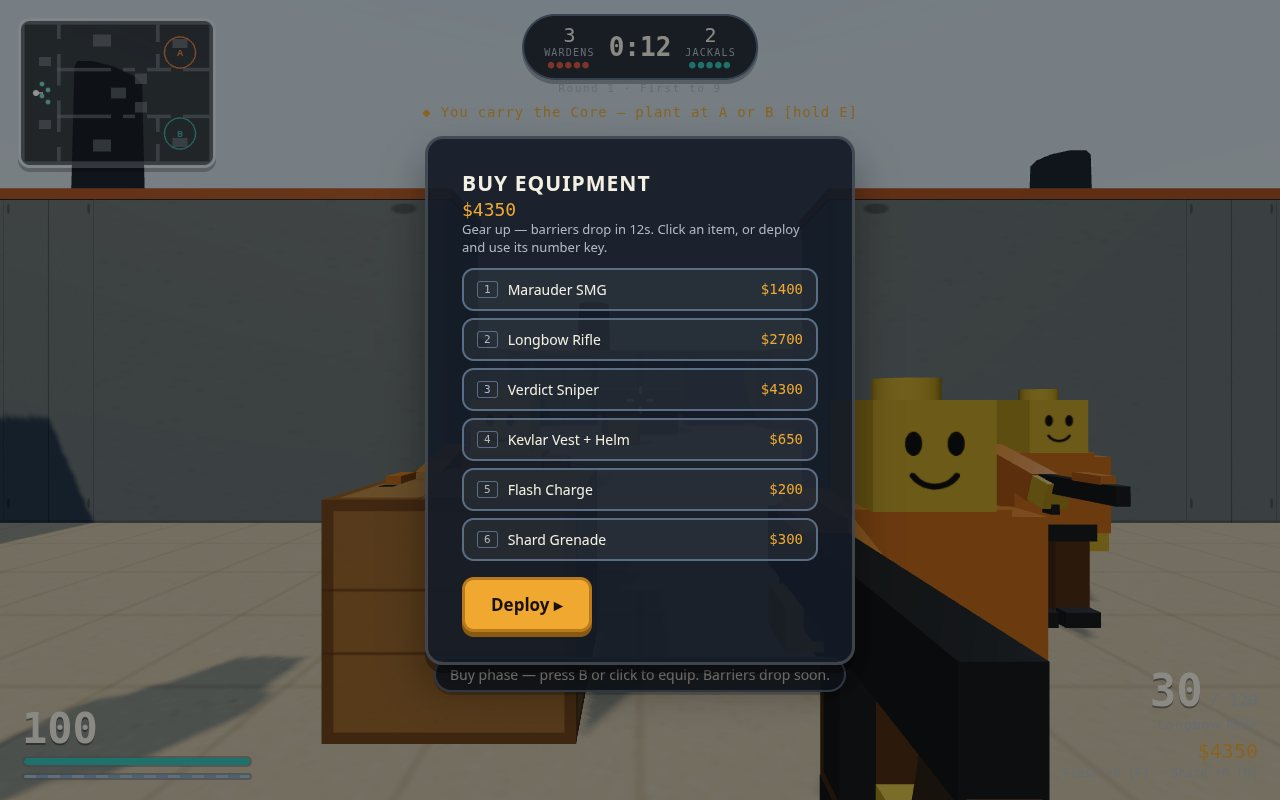
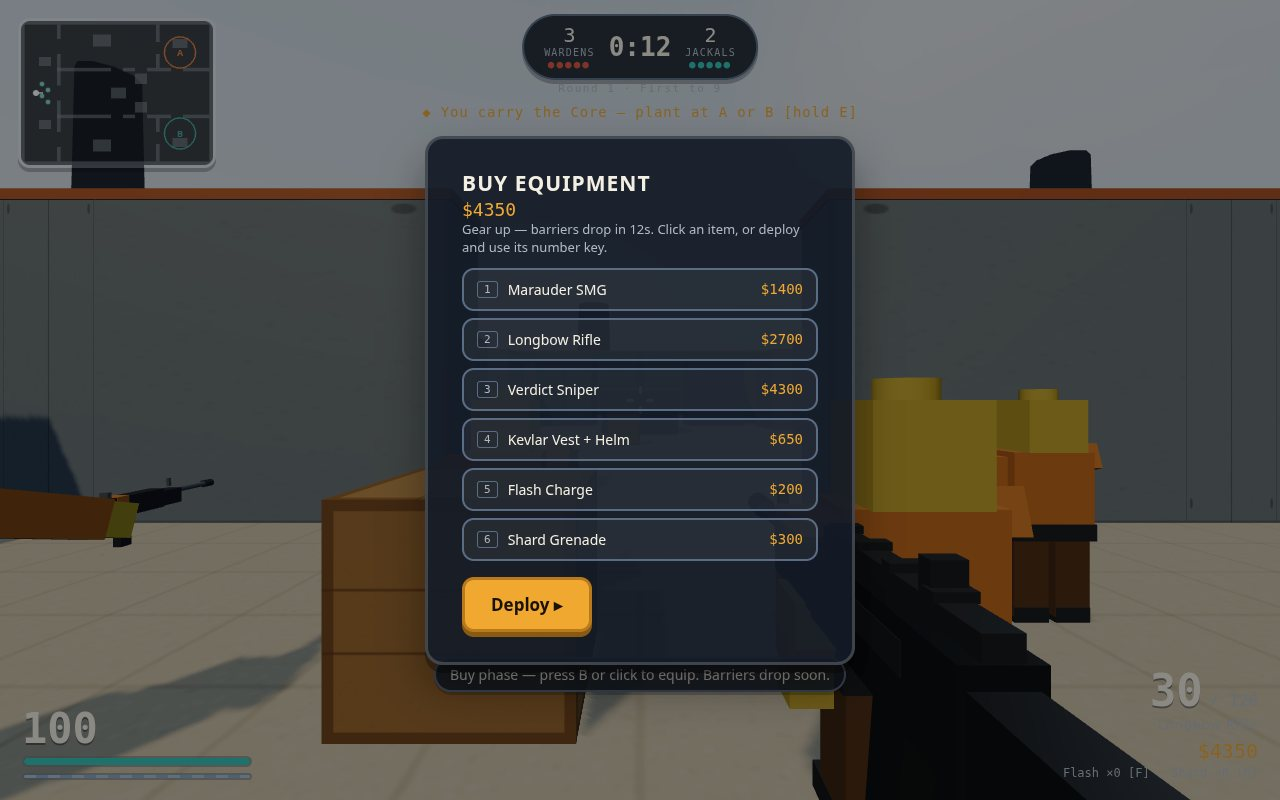
Fix bot facing, realistic weapon models, cloudy sky, platform-aware UI
Characters: bot meshes were posed 180 degrees from their aim and
movement direction, so faces pointed away from whoever they were
fighting; the pose now matches the simulation yaw everywhere. Weapons:
all four viewmodels rebuilt as detailed display models in the Point
Blank tradition (round barrels and suppressors, curved magazines,
stocks, rails, sights, a scoped bolt-action with bipod), and the bots
carry a proper little rifle instead of a slab. Sky: a light overcast of
soft grey-bellied clouds on the gradient dome. UI platform detection:
the touch layer now enables only when a coarse pointer is primary (a
touchscreen laptop stays a desktop), hides buttons that cannot act in
the current phase (no FIRE during buy, nothing at round end), and
touch devices lose the keyboard hints and buy hotkey chips while
desktops never see the touch buttons at all.

diff --git a/game/src/weapons.js b/game/src/weapons.js
@@ -291,47 +291,117 @@ function popGrenade(game, g) {
 // ---------------------------------------------------------------------------
 
 export function buildViewmodel(key) {
+  // Detailed display models in the Point Blank tradition: real silhouettes
+  // assembled from machined-looking parts — barrels and suppressors as
+  // cylinders, curved magazines, stocks, rails, posts and glass — instead
+  // of the single slabs the first build shipped with. Purely cosmetic:
+  // every number the simulation uses lives in config.js.
   const group = new THREE.Group();
-  const body = new THREE.MeshStandardMaterial({ color: 0x3a4046, roughness: 0.35, metalness: 0.3 });
-  const grip = new THREE.MeshStandardMaterial({ color: 0x54432e, roughness: 0.85, metalness: 0 });
+  const metal = new THREE.MeshStandardMaterial({ color: 0x2e3238, roughness: 0.38, metalness: 0.65 });
+  const steel = new THREE.MeshStandardMaterial({ color: 0x6a727c, roughness: 0.3, metalness: 0.8 });
+  const polymer = new THREE.MeshStandardMaterial({ color: 0x1e2124, roughness: 0.55, metalness: 0.2 });
   const accent = new THREE.MeshStandardMaterial({ color: 0xe07b39, roughness: 0.5, metalness: 0.2 });
+  const glass = new THREE.MeshStandardMaterial({ color: 0x0e2a33, roughness: 0.15, metalness: 0.4, emissive: 0x1e6f6a, emissiveIntensity: 0.7 });
   const hand = new THREE.MeshStandardMaterial({ color: 0xf5cd30, roughness: 0.32, metalness: 0.02 });
-  const box = (mat, sx, sy, sz, x, y, z, rx = 0) => {
+  const box = (mat, sx, sy, sz, x, y, z, rx = 0, rz = 0) => {
     const m = new THREE.Mesh(new THREE.BoxGeometry(sx, sy, sz), mat);
     m.position.set(x, y, z);
     m.rotation.x = rx;
+    m.rotation.z = rz;
+    group.add(m);
+    return m;
+  };
+  const cyl = (mat, r, len, x, y, z) => {
+    const m = new THREE.Mesh(new THREE.CylinderGeometry(r, r, len, 14), mat);
+    m.rotation.x = Math.PI / 2;
+    m.position.set(x, y, z);
     group.add(m);
     return m;
   };
   if (key === 'kestrel') {
-    box(body, 0.055, 0.075, 0.21, 0, 0, -0.05);
-    box(grip, 0.05, 0.13, 0.06, 0, -0.09, 0.03, 0.25);
-    box(accent, 0.057, 0.02, 0.05, 0, 0.045, -0.13);
+    // A service pistol: long slide, exposed barrel tip, railed frame.
+    box(steel, 0.058, 0.05, 0.25, 0, 0.03, -0.06);
+    box(metal, 0.06, 0.02, 0.03, 0, 0.032, 0.045);
+    box(metal, 0.06, 0.02, 0.03, 0, 0.032, 0.028);
+    cyl(steel, 0.013, 0.035, 0, 0.032, -0.195);
+    box(metal, 0.05, 0.045, 0.21, 0, -0.012, -0.04);
+    box(polymer, 0.042, 0.018, 0.11, 0, -0.042, -0.1);
+    box(polymer, 0.045, 0.013, 0.1, 0, -0.055, -0.045); // trigger-guard bar
+    box(polymer, 0.052, 0.15, 0.07, 0, -0.115, 0.05, 0.28);
+    box(metal, 0.02, 0.028, 0.03, 0, 0.012, 0.078);      // hammer
+    box(steel, 0.008, 0.026, 0.01, 0, 0.066, -0.168);    // front sight
+    box(steel, 0.032, 0.02, 0.012, 0, 0.064, 0.052);     // rear sight
+    box(accent, 0.059, 0.012, 0.05, 0, 0.058, -0.13);
+    box(hand, 0.08, 0.085, 0.1, 0, -0.145, 0.055);
   } else if (key === 'marauder') {
-    box(body, 0.06, 0.09, 0.4, 0, 0, -0.12);
-    box(grip, 0.05, 0.13, 0.06, 0, -0.1, 0.05, 0.25);
-    box(body, 0.045, 0.16, 0.055, 0, -0.13, -0.12);
-    box(accent, 0.062, 0.025, 0.1, 0, 0.05, -0.2);
+    // A compact SMG: receiver, long suppressor, curved magazine, wire stock.
+    box(metal, 0.06, 0.085, 0.34, 0, 0, -0.08);
+    box(polymer, 0.056, 0.06, 0.15, 0, -0.012, -0.21);
+    cyl(metal, 0.027, 0.21, 0, 0.006, -0.35);
+    cyl(steel, 0.028, 0.02, 0, 0.006, -0.46);
+    box(polymer, 0.04, 0.17, 0.055, 0, -0.14, -0.06, 0.18);
+    box(polymer, 0.04, 0.1, 0.05, 0, -0.228, -0.032, 0.4);
+    box(polymer, 0.048, 0.13, 0.06, 0, -0.105, 0.065, 0.25);
+    box(steel, 0.012, 0.012, 0.13, -0.018, -0.002, 0.15);
+    box(steel, 0.012, 0.012, 0.13, 0.018, -0.002, 0.15);
+    box(polymer, 0.056, 0.11, 0.026, 0, -0.008, 0.225);
+    box(steel, 0.04, 0.032, 0.02, 0, 0.058, 0.03);       // rear sight
+    cyl(steel, 0.02, 0.014, 0, 0.052, -0.19);            // front ring sight
+    box(steel, 0.008, 0.03, 0.008, 0, 0.03, -0.19);
+    box(steel, 0.02, 0.016, 0.035, -0.04, 0.022, -0.15); // charging handle
+    box(accent, 0.062, 0.02, 0.09, 0, 0.048, -0.16);
+    box(hand, 0.08, 0.08, 0.095, 0, -0.14, 0.07);
+    box(hand, 0.075, 0.06, 0.09, -0.005, -0.062, -0.22);
   } else if (key === 'verdict') {
-    box(body, 0.055, 0.08, 0.62, 0, 0, -0.2);
-    box(grip, 0.05, 0.12, 0.06, 0, -0.09, 0.08, 0.25);
-    const scope = new THREE.Mesh(new THREE.CylinderGeometry(0.026, 0.026, 0.17, 10), body);
-    scope.rotation.x = Math.PI / 2;
-    scope.position.set(0, 0.085, -0.16);
-    group.add(scope);
-    box(accent, 0.057, 0.018, 0.08, 0, 0.02, -0.44);
+    // A bolt-action sniper: heavy barrel, big glass, cheek riser, bipod.
+    box(metal, 0.06, 0.085, 0.26, 0, 0, -0.02);
+    box(polymer, 0.056, 0.07, 0.24, 0, -0.015, -0.24);
+    cyl(steel, 0.017, 0.5, 0, 0.015, -0.45);
+    cyl(metal, 0.027, 0.09, 0, 0.015, -0.72);
+    cyl(steel, 0.028, 0.012, 0, 0.015, -0.685);
+    cyl(steel, 0.028, 0.012, 0, 0.015, -0.755);
+    box(steel, 0.02, 0.032, 0.03, 0, 0.058, -0.15);
+    box(steel, 0.02, 0.032, 0.03, 0, 0.058, -0.02);
+    cyl(metal, 0.021, 0.3, 0, 0.095, -0.085);
+    cyl(metal, 0.031, 0.07, 0, 0.095, -0.255);
+    cyl(glass, 0.026, 0.005, 0, 0.095, -0.292);
+    cyl(metal, 0.026, 0.05, 0, 0.095, 0.09);
+    box(polymer, 0.052, 0.09, 0.28, 0, -0.032, 0.17);
+    box(polymer, 0.054, 0.04, 0.14, 0, 0.032, 0.19);     // cheek riser
+    box(polymer, 0.054, 0.12, 0.02, 0, -0.03, 0.315);
+    cyl(steel, 0.008, 0.05, 0.048, 0.005, 0.03);
+    box(steel, 0.022, 0.022, 0.022, 0.072, -0.005, 0.03); // bolt knob
+    box(polymer, 0.04, 0.09, 0.07, 0, -0.09, -0.05, 0.1);
+    box(polymer, 0.046, 0.12, 0.055, 0, -0.1, 0.065, 0.25);
+    box(steel, 0.011, 0.17, 0.011, -0.036, -0.1, -0.33, 0.55);
+    box(steel, 0.011, 0.17, 0.011, 0.036, -0.1, -0.33, 0.55);
+    box(accent, 0.062, 0.016, 0.1, 0, 0.05, -0.3);
+    box(hand, 0.08, 0.08, 0.095, 0, -0.135, 0.07);
+    box(hand, 0.075, 0.06, 0.09, -0.005, -0.07, -0.25);
+    group.position.set(0.24, -0.22, -0.5);
+    return group;
   } else {
-    // longbow
-    box(body, 0.06, 0.095, 0.52, 0, 0, -0.16);
-    box(grip, 0.05, 0.13, 0.06, 0, -0.1, 0.06, 0.25);
-    box(body, 0.04, 0.17, 0.05, 0, -0.14, -0.16);
-    box(grip, 0.045, 0.05, 0.16, 0, -0.06, -0.3);
-    box(accent, 0.062, 0.02, 0.12, 0, 0.055, -0.3);
+    // longbow — an assault rifle: railed handguard, brake, curved magazine.
+    box(metal, 0.062, 0.09, 0.3, 0, 0, -0.05);
+    box(steel, 0.064, 0.03, 0.09, 0, 0.012, -0.02);
+    box(steel, 0.03, 0.02, 0.3, 0, 0.056, -0.05);
+    for (const z of [-0.17, -0.1, -0.03, 0.04]) box(steel, 0.036, 0.009, 0.016, 0, 0.07, z);
+    box(polymer, 0.058, 0.075, 0.22, 0, -0.005, -0.27);
+    for (const z of [-0.34, -0.27, -0.2]) box(steel, 0.034, 0.012, 0.02, 0, 0.04, z);
+    cyl(steel, 0.013, 0.22, 0, 0.012, -0.47);
+    cyl(metal, 0.02, 0.06, 0, 0.012, -0.6);
+    cyl(steel, 0.014, 0.016, 0, 0.012, -0.64);
+    box(steel, 0.016, 0.05, 0.016, 0, 0.045, -0.44);     // front sight post
+    box(steel, 0.03, 0.036, 0.018, 0, 0.078, 0.03);      // rear sight
+    box(polymer, 0.042, 0.16, 0.06, 0, -0.13, -0.03, 0.15);
+    box(polymer, 0.042, 0.11, 0.055, 0, -0.218, -0.002, 0.36);
+    box(polymer, 0.048, 0.13, 0.06, 0, -0.105, 0.08, 0.25);
+    box(polymer, 0.05, 0.085, 0.17, 0, -0.015, 0.17);
+    box(polymer, 0.052, 0.11, 0.02, 0, -0.02, 0.26);
+    box(accent, 0.064, 0.02, 0.12, 0, 0.052, -0.3);
+    box(hand, 0.08, 0.08, 0.095, 0, -0.14, 0.085);
+    box(hand, 0.075, 0.06, 0.09, -0.005, -0.068, -0.27);
   }
-  // The shooter's own toy hands: one on the grip, and a support hand under
-  // the forestock of the two-handed guns.
-  box(hand, 0.078, 0.075, 0.095, 0, -0.145, 0.045);
-  if (key !== 'kestrel') box(hand, 0.075, 0.06, 0.09, -0.01, -0.085, -0.3);
   group.position.set(0.24, -0.22, -0.45);
   return group;
 }

diff --git a/game/index.html b/game/index.html
@@ -172,6 +172,18 @@
   body.touch.playing #vitals { bottom: 200px; }
   body.touch.playing #armory { top: 8px; bottom: auto; }
   body.touch #bomb-status { top: 134px; }
+  /* Platform- and phase-aware UI: on touch devices the keyboard hints and
+     buy-menu hotkey chips disappear, and the touch layer only shows the
+     buttons that can actually do something in the current phase. */
+  body.touch .buy-key { display: none; }
+  .keys li.touch-row { display: none; }
+  body.touch .keys li.touch-row { display: block; }
+  body.touch .keys li.kb-row { display: none; }
+  body.touch[data-phase='buy'] #t-fire, body.touch[data-phase='buy'] #t-scope,
+  body.touch[data-phase='buy'] #t-jump, body.touch[data-phase='buy'] #t-crouch,
+  body.touch[data-phase='buy'] #t-reload, body.touch[data-phase='buy'] #t-use,
+  body.touch[data-phase='buy'] #t-flash, body.touch[data-phase='buy'] #t-shard { display: none; }
+  body.touch[data-phase='roundEnd'] #touchui { display: none; }
   body.touch.playing #killfeed { top: 108px; }
   @media (max-height: 500px) {
     body.touch.playing #vitals { bottom: 212px; }
@@ -280,15 +292,15 @@
     <p>A round-based tactical shooter in the foundry of Foundry Nine. You lead the <b>Jackals</b>: plant the Core at the Furnace (A) or the Vault (B), or eliminate the Wardens holding them. Money buys rifles, armour and grenades between rounds — and shots only land true when you stop to aim.</p>
     <button id="play" class="cta" type="button">Play ▸</button>
     <ul class="keys">
-      <li><span><kbd>W</kbd><kbd>A</kbd><kbd>S</kbd><kbd>D</kbd></span> Move</li>
-      <li><span><kbd>Mouse</kbd></span> Look · <kbd>Click</kbd> Fire</li>
-      <li><span><kbd>Shift</kbd></span> Walk (quiet) · <kbd>Ctrl</kbd> Crouch</li>
-      <li><span><kbd>R</kbd></span> Reload · <kbd>1</kbd><kbd>2</kbd> Weapons</li>
-      <li><span><kbd>E</kbd></span> Plant the Core (hold, in a site)</li>
-      <li><span><kbd>F</kbd></span> Flash · <kbd>G</kbd> Shard grenade</li>
-      <li><span><kbd>B</kbd></span> Buy menu · <kbd>Tab</kbd> Scores</li>
-      <li><span><kbd>RMB</kbd></span> Scope (Verdict sniper)</li>
-      <li><span><kbd>Touch</kbd></span> On mobile: joystick, drag to look, a button for every action</li>
+      <li class="kb-row"><span><kbd>W</kbd><kbd>A</kbd><kbd>S</kbd><kbd>D</kbd></span> Move</li>
+      <li class="kb-row"><span><kbd>Mouse</kbd></span> Look · <kbd>Click</kbd> Fire</li>
+      <li class="kb-row"><span><kbd>Shift</kbd></span> Walk (quiet) · <kbd>Ctrl</kbd> Crouch</li>
+      <li class="kb-row"><span><kbd>R</kbd></span> Reload · <kbd>1</kbd><kbd>2</kbd> Weapons</li>
+      <li class="kb-row"><span><kbd>E</kbd></span> Plant the Core (hold, in a site)</li>
+      <li class="kb-row"><span><kbd>F</kbd></span> Flash · <kbd>G</kbd> Shard grenade</li>
+      <li class="kb-row"><span><kbd>B</kbd></span> Buy menu · <kbd>Tab</kbd> Scores</li>
+      <li class="kb-row"><span><kbd>RMB</kbd></span> Scope (Verdict sniper)</li>
+      <li class="touch-row"><span><kbd>Touch</kbd></span> On mobile: joystick, drag to look, a button for every action</li>
     </ul>
   </section>
 </div>

diff --git a/game/src/map.js b/game/src/map.js
@@ -323,15 +323,44 @@ export function buildWorld(scene) {
   scene.background = new THREE.Color(PALETTE.sky);
   scene.fog = new THREE.Fog(PALETTE.fog, 70, 175);
 
-  // A gradient sky dome: deep blue overhead melting to a pale horizon.
+  // A gradient sky dome: deep blue overhead melting to a pale horizon, with
+  // a light overcast — soft cloud clusters with grey bellies, drawn wrapped
+  // so the dome's seam never shows.
   const skyTex = canvasTexture((g, w, h) => {
     const grad = g.createLinearGradient(0, 0, 0, h);
-    grad.addColorStop(0, '#4f97d4');
-    grad.addColorStop(0.55, '#9cc8ec');
+    grad.addColorStop(0, '#5b93c9');
+    grad.addColorStop(0.55, '#a8cbe9');
     grad.addColorStop(1, '#eaf4fc');
     g.fillStyle = grad;
     g.fillRect(0, 0, w, h);
-  }, 32, 256);
+    const puff = (x, y, r, alpha) => {
+      const rg = g.createRadialGradient(x, y, 0, x, y, r);
+      rg.addColorStop(0, `rgba(255,255,255,${alpha})`);
+      rg.addColorStop(1, 'rgba(255,255,255,0)');
+      g.fillStyle = rg;
+      g.fillRect(x - r, y - r, r * 2, r * 2);
+    };
+    const cloud = (x, y, s, a) => {
+      for (const ox of [0, -w, w]) {
+        g.fillStyle = 'rgba(110,128,150,0.16)';
+        g.beginPath();
+        g.ellipse(x + ox, y + 14 * s, 62 * s, 13 * s, 0, 0, Math.PI * 2);
+        g.fill();
+        puff(x + ox, y, 46 * s, a);
+        puff(x + ox + 38 * s, y + 6 * s, 33 * s, a * 0.9);
+        puff(x + ox - 40 * s, y + 8 * s, 29 * s, a * 0.9);
+        puff(x + ox + 15 * s, y - 13 * s, 28 * s, a * 0.85);
+        puff(x + ox - 18 * s, y - 9 * s, 24 * s, a * 0.8);
+      }
+    };
+    cloud(46, 42, 1.0, 0.75);
+    cloud(190, 74, 0.7, 0.6);
+    cloud(338, 36, 0.9, 0.7);
+    cloud(472, 88, 0.62, 0.55);
+    cloud(118, 128, 0.55, 0.45);
+    cloud(424, 146, 0.5, 0.42);
+    cloud(268, 116, 0.45, 0.4);
+  }, 512, 256);
   skyTex.wrapS = skyTex.wrapT = THREE.ClampToEdgeWrapping;
   const sky = new THREE.Mesh(
     new THREE.SphereGeometry(240, 24, 14),

diff --git a/game/src/bots.js b/game/src/bots.js
@@ -84,9 +84,26 @@ export function buildBotMesh(team) {
   gun.position.set(0, -0.64, -0.06);
   gun.rotation.x = -1.28; // counter the arm pitch: the rifle stays level
   armR.add(gun);
-  box(gun, dark, 0.08, 0.11, 0.58, 0, 0, -0.2);
-  box(gun, cloth, 0.086, 0.05, 0.2, 0, 0.075, -0.3);
-  box(gun, dark, 0.05, 0.16, 0.08, 0, -0.11, 0.02);
+  // A proper little rifle, not a slab: receiver with a team band, railed
+  // handguard, round barrel and brake, curved magazine, stock and sights.
+  const steel = plastic(0x6a727c);
+  const gcyl = (mat, r, len, x, y, z) => {
+    const m = new THREE.Mesh(new THREE.CylinderGeometry(r, r, len, 12), mat);
+    m.rotation.x = Math.PI / 2;
+    m.position.set(x, y, z);
+    m.castShadow = true;
+    gun.add(m);
+    return m;
+  };
+  box(gun, dark, 0.075, 0.1, 0.34, 0, 0, -0.08);
+  box(gun, cloth, 0.079, 0.104, 0.06, 0, 0, -0.02);
+  box(gun, dark, 0.07, 0.08, 0.18, 0, -0.005, -0.27);
+  gcyl(steel, 0.014, 0.3, 0, 0.02, -0.42);
+  gcyl(dark, 0.021, 0.055, 0, 0.02, -0.58);
+  box(gun, dark, 0.04, 0.15, 0.055, 0, -0.13, -0.05);
+  box(gun, dark, 0.05, 0.09, 0.16, 0, -0.01, 0.16);
+  box(gun, steel, 0.014, 0.045, 0.014, 0, 0.072, -0.32);
+  box(gun, steel, 0.04, 0.03, 0.02, 0, 0.065, 0.03);
   // Head: a yellow block with the face in front and a stud on top.
   const head = new THREE.Group();
   head.position.set(0, 1.24, 0);
@@ -382,7 +399,7 @@ export function stepBot(game, bot, dt) {
   // the whole figure down on bent legs.
   if (bot.mesh) {
     bot.mesh.position.copy(bot.pos);
-    bot.mesh.rotation.y = bot.yaw + Math.PI;
+    bot.mesh.rotation.y = bot.yaw;
     const crouchDip = bot.crouch ? 0.34 : 0;
     bot.mesh.position.y = bot.pos.y - crouchDip;
     bot.mesh.visible = bot.alive;

diff --git a/game/src/input.js b/game/src/input.js
@@ -112,14 +112,19 @@ export function walkHeld() {
 // writes the same input fields the keyboard and mouse use.
 function initTouchControls(canvas, onFirstGesture) {
   const $ = (id) => document.getElementById(id);
+  // Platform auto-detect: the touch layer belongs to phones and tablets,
+  // where the coarse pointer is the primary one. A computer or laptop —
+  // including a touchscreen laptop, whose primary pointer is fine — never
+  // enables it, so desktop players never see the mobile buttons.
+  const finePrimary = () => !!(window.matchMedia && matchMedia('(pointer: fine)').matches);
   const enable = () => {
     if (!input.touchMode) {
       input.touchMode = true;
       document.body.classList.add('touch');
     }
   };
-  if (window.matchMedia && matchMedia('(pointer: coarse)').matches) enable();
-  window.addEventListener('pointerdown', (e) => { if (e.pointerType === 'touch') enable(); }, { passive: true });
+  if (window.matchMedia && matchMedia('(pointer: coarse)').matches && !finePrimary()) enable();
+  window.addEventListener('pointerdown', (e) => { if (e.pointerType === 'touch' && !finePrimary()) enable(); }, { passive: true });
 
   // Dragging on the view looks around, at a touch-tuned sensitivity.
   let lookId = null;

diff --git a/game/src/main.js b/game/src/main.js
@@ -349,7 +349,7 @@ function resetActor(a, spawn) {
   if (a.mesh) {
     a.mesh.visible = true;
     a.mesh.position.copy(a.pos);
-    a.mesh.rotation.y = a.yaw + Math.PI;
+    a.mesh.rotation.y = a.yaw;
   }
 }
 
@@ -721,7 +721,7 @@ function setupShot(name) {
     a.pos.set(x, 0, z);
     a.yaw = THREE.MathUtils.degToRad(yawDeg);
     a.pitch = 0;
-    if (a.mesh) { a.mesh.position.copy(a.pos); a.mesh.rotation.y = a.yaw + Math.PI; }
+    if (a.mesh) { a.mesh.position.copy(a.pos); a.mesh.rotation.y = a.yaw; }
   };
   if (name === 'start') {
     game.phase = 'live';
@@ -822,6 +822,7 @@ function frame(now) {
   game.hud.showScoreboard(input.keys.has('Tab'));
   // The touch layer shows only while a match is running (see index.html).
   document.body.classList.toggle('playing', game.phase !== 'menu' && game.phase !== 'matchEnd');
+  if (document.body.dataset.phase !== game.phase) document.body.dataset.phase = game.phase;
   // Live spread estimate for the crosshair.
   const def = currentDef(player.loadout);
   const moveFactor = Math.min(1, Math.hypot(player.vel.x, player.vel.z) / BODY.walkSpeed);
